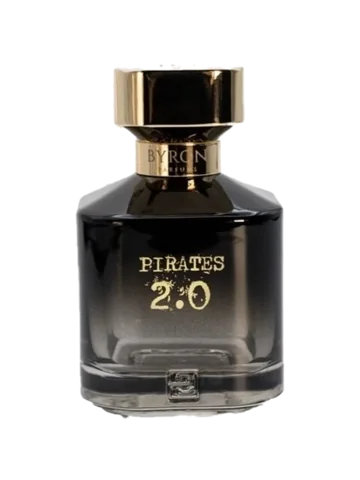
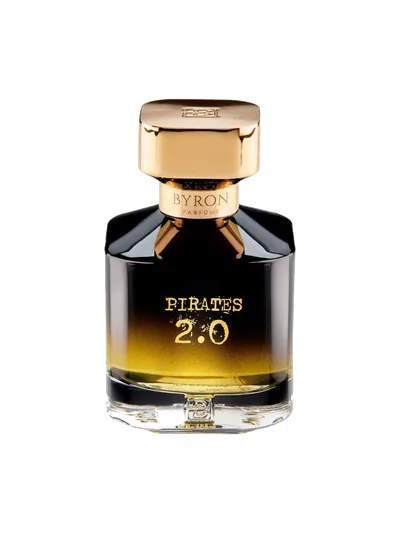
Neuf flacons sur dix passent en pleine définition
J'avais écrit qu'il n'y avait rien de mieux sur le web. C'était faux : je
n'avais essayé que deux sources d'images, sans chercher du côté des
maisons elles-mêmes. Elles publient leur packshot en 1200 à 2900 px sur
leur propre boutique.

Neuf des dix flacons trop petits passent donc de 360-399 px à 750 px, la
définition du site : Initio Atomic Rose et Psychedelic Love, BDK Rouge
Smoking, Byron Pirates, Tiziana Terenzi Kirkè Overdose et Tabit, Tom Ford
Bois Marocain, Xerjoff Via Cavour, Armani Privé Bois d'Encens.

Reste Dior Escale à Portofino, de la collection Cruise, arrêtée. Cherchée
sur la maison, sur huit revendeurs et par recherche web. Le client ne la
vend pas, elle n'a pas de prix au tableur.

Deux choses au passage.

Le détourage refusait les packshots DÉJÀ détourés. Les maisons publient
souvent un PNG à fond transparent : mon code lisait du noir sur les bords
et rejetait l'image comme « photo en ambiance ». Il la prend maintenant
telle quelle, il n'y a rien à enlever.

« Thabit » s'écrit « Tabit ». La maison l'écrit comme l'étoile, et la
graphie du tableur ne renvoie rien nulle part. Ce parfum-là, le client le
vend 12,90 € le 2 ml — la photo comptait vraiment.

338 parfums, 0 bloquant. Boutique resynchronisée.

diff --git a/assets/js/catalogue-client.js b/assets/js/catalogue-client.js
@@ -63,9 +63,9 @@
     {"id": "gritti-adele", "brand": "Gritti", "brandId": "gritti", "name": "Adele", "notesTop": ["Osmanthus", "Jasmin", "Rose de Mai"], "notesHeart": ["Tubéreuse", "Narcisse"], "notesBase": ["Ambre gris", "Cèdre"], "gender": "femme", "price": 6.9, "prices": {"2ml": 6.9, "5ml": 11.9, "10ml": 21.9}, "type": "decant", "supplierAvailable": true, "shopifyHandle": "test-poc-gritti-adele", "accords": ["floral", "fleurs blanches", "fruité", "tubéreuse", "fleurs jaunes", "animal", "rose", "vert", "ambre", "boisé"], "annee": "2018", "family": "oriental", "image": "assets/images/products/gritti-adele.webp", "imageWidth": 706},
     {"id": "gritti-supernova", "brand": "Gritti", "brandId": "gritti", "name": "Supernova", "notesTop": ["Notes minérales", "Poivron vert", "Armoise"], "notesHeart": ["Notes ozoniques", "Poudre", "Oud"], "notesBase": ["Notes métalliques", "Ambre gris", "Cashmeran"], "gender": "unisexe", "price": 7.9, "prices": {"2ml": 7.9, "5ml": 14.9, "10ml": 28.9}, "type": "decant", "supplierAvailable": true, "shopifyHandle": "test-poc-gritti-supernova", "accords": ["minéral", "métallique", "ozonique", "aromatique", "ambre", "fumé", "vert", "herbacé", "animal", "épicé frais"], "family": "aromatique", "image": "assets/images/products/gritti-supernova.webp", "imageWidth": 750},
     {"id": "gritti-chantilly", "brand": "Gritti", "brandId": "gritti", "name": "Chantilly", "notesTop": ["Fraise", "Melon", "Mandarine", "Orange", "Bergamote"], "notesHeart": ["Noix de Coco", "Pomme", "Notes fleuries", "Bourgeon de cassis"], "notesBase": ["Notes poudrées", "Vanille", "Musc"], "gender": "femme", "price": 7.9, "prices": {"2ml": 7.9, "5ml": 13.9, "10ml": 26.9}, "type": "decant", "supplierAvailable": true, "shopifyHandle": "test-poc-gritti-chantilly", "accords": ["fruité", "sucré", "poudré", "vanille", "noix de coco", "agrume", "musqué", "frais", "ozonique", "aquatique"], "annee": "2018", "family": "floral", "image": "assets/images/products/gritti-chantilly.webp", "imageWidth": 750},
-    {"id": "initio-atomic-rose", "brand": "Initio", "brandId": "initio", "name": "Atomic Rose", "notesTop": ["Poivre rose", "Bergamote"], "notesHeart": ["Rose de Bulgarie", "Rose de Turquie", "Jasmin d'Egypte"], "notesBase": ["Vanille de Madagascar", "Ambre"], "gender": "homme", "price": 10.9, "prices": {"2ml": 10.9, "5ml": 20.9, "10ml": 39.9}, "type": "decant", "supplierAvailable": true, "shopifyHandle": "test-poc-initio-atomic-rose", "accords": ["rose", "vanille", "agrume", "épicé doux", "floral", "ambre", "poudré"], "annee": "2019", "family": "oriental", "image": "assets/images/products/initio-atomic-rose.webp", "imageWidth": 375},
+    {"id": "initio-atomic-rose", "brand": "Initio", "brandId": "initio", "name": "Atomic Rose", "notesTop": ["Poivre rose", "Bergamote"], "notesHeart": ["Rose de Bulgarie", "Rose de Turquie", "Jasmin d'Egypte"], "notesBase": ["Vanille de Madagascar", "Ambre"], "gender": "homme", "price": 10.9, "prices": {"2ml": 10.9, "5ml": 20.9, "10ml": 39.9}, "type": "decant", "supplierAvailable": true, "shopifyHandle": "test-poc-initio-atomic-rose", "accords": ["rose", "vanille", "agrume", "épicé doux", "floral", "ambre", "poudré"], "annee": "2019", "family": "oriental", "image": "assets/images/products/initio-atomic-rose.webp", "imageWidth": 750},
     {"id": "initio-narcotic-delight", "brand": "Initio", "brandId": "initio", "name": "Narcotic Delight", "notesTop": ["Cerise", "Poivre rose", "Poivre noir"], "notesHeart": ["Cognac", "Hedione", "Rose"], "notesBase": ["Tabac", "Vanille", "Fève de tonka", "Cèdre", "Patchouli"], "gender": "homme", "price": 10.9, "prices": {"2ml": 10.9, "5ml": 22.9, "10ml": 43.9}, "type": "decant", "supplierAvailable": true, "shopifyHandle": "test-poc-initio-narcotic-delight", "accords": ["sucré", "vanille", "cerise", "boisé", "tabac", "épicé chaud", "épicé frais", "épicé doux", "floral"], "annee": "2024", "family": "oriental", "image": "assets/images/products/initio-narcotic-delight.webp", "imageWidth": 750},
-    {"id": "initio-psychedelic-love", "brand": "Initio", "brandId": "initio", "name": "Psychedelic Love", "notesTop": ["Ylang-ylang", "Bergamote"], "notesHeart": ["Héliotrope", "Hedione", "Rose de Bulgarie"], "notesBase": ["Myrrhe", "Bois de santal"], "gender": "homme", "price": 12.9, "prices": {"2ml": 12.9, "5ml": 25.9, "10ml": 49.9}, "type": "decant", "supplierAvailable": true, "shopifyHandle": "test-poc-initio-psychedelic-love", "accords": ["poudré", "boisé", "floral", "ambre", "fleurs jaunes", "vanille", "sucré", "épicé chaud", "amande", "balsamique/baumé"], "annee": "2017", "family": "floral", "image": "assets/images/products/initio-psychedelic-love.webp", "imageWidth": 360},
+    {"id": "initio-psychedelic-love", "brand": "Initio", "brandId": "initio", "name": "Psychedelic Love", "notesTop": ["Ylang-ylang", "Bergamote"], "notesHeart": ["Héliotrope", "Hedione", "Rose de Bulgarie"], "notesBase": ["Myrrhe", "Bois de santal"], "gender": "homme", "price": 12.9, "prices": {"2ml": 12.9, "5ml": 25.9, "10ml": 49.9}, "type": "decant", "supplierAvailable": true, "shopifyHandle": "test-poc-initio-psychedelic-love", "accords": ["poudré", "boisé", "floral", "ambre", "fleurs jaunes", "vanille", "sucré", "épicé chaud", "amande", "balsamique/baumé"], "annee": "2017", "family": "floral", "image": "assets/images/products/initio-psychedelic-love.webp", "imageWidth": 750},
     {"id": "initio-rehab", "brand": "Initio", "brandId": "initio", "name": "Rehab", "notesTop": ["Lavande", "Bergamote"], "notesHeart": ["Cèdre", "Vétiver", "Patchouli"], "notesBase": ["Bois de santal", "Musc", "Gaïac"], "gender": "homme", "price": 12.9, "prices": {"2ml": 12.9, "5ml": 25.9, "10ml": 49.9}, "type": "decant", "supplierAvailable": true, "shopifyHandle": "test-poc-initio-rehab", "accords": ["boisé", "poudré", "aromatique", "Lavande", "musqué", "épicé frais", "agrume", "épicé chaud"], "annee": "2018", "family": "boisé", "image": "assets/images/products/initio-rehab.webp", "imageWidth": 750},
     {"id": "kajal-almaz", "brand": "Kajal", "brandId": "kajal", "name": "Almaz", "notesTop": ["Cassis", "Bergamote de Calabre", "Limone Costa d'Amalfi", "Mandarine"], "notesHeart": ["Framboise", "Héliotrope", "Rose de Turquie", "Racine d'iris"], "notesBase": ["Cassonade", "Vanille de Madagascar", "Musc", "Fève de tonka", "Bois de santal", "Ambre"], "gender": "homme", "price": 8.9, "prices": {"2ml": 8.9, "5ml": 17.9, "10ml": 33.9}, "type": "decant", "supplierAvailable": true, "shopifyHandle": "test-poc-kajal-almaz", "accords": ["fruité", "sucré", "agrume", "vanille", "poudré", "boisé", "aromatique", "floral", "épicé doux"], "annee": "2022", "family": "frais", "image": "assets/images/products/kajal-almaz.webp", "imageWidth": 750},
     {"id": "kajal-dahab", "brand": "Kajal", "brandId": "kajal", "name": "Dahab", "notesTop": ["Pomme Granny Smith", "Bergamote"], "notesHeart": ["Fruit de la passion", "Cèdre", "Coriandre"], "notesBase": ["Musc", "Ambre", "Patchouli"], "gender": "femme", "price": 8.9, "prices": {"2ml": 8.9, "5ml": 15.9, "10ml": 29.9}, "type": "decant", "supplierAvailable": true, "shopifyHandle": "test-poc-kajal-dahab", "accords": ["fruité", "frais", "musqué", "tropical", "sucré", "poudré", "boisé", "ambre", "agrume", "vert"], "annee": "2015", "family": "frais", "image": "assets/images/products/kajal-dahab.webp", "imageWidth": 540},
@@ -141,26 +141,26 @@
     {"id": "stephanie-de-bruijn-promenons-nous-dans-les-bois", "brand": "Stéphanie de Bruijn", "brandId": "stephanie-de-bruijn", "name": "Promenons-nous dans les Bois", "notesTop": ["Lavande", "Notes vertes", "Citron", "Bergamote"], "notesHeart": ["Menthe", "Sauge", "Armoise", "Noix de muscade", "Anis", "Héliotrope"], "notesBase": ["Musc blanc", "Vanille", "Ambre", "Cèdre", "Bois de santal"], "gender": "homme", "price": 6.9, "prices": {"2ml": 6.9, "5ml": 11.9, "10ml": 22.9}, "type": "decant", "supplierAvailable": true, "shopifyHandle": "test-poc-stephanie-de-bruijn-promenons-nous-dans-les-bois", "accords": ["aromatique", "épicé frais", "vert", "herbacé", "musqué", "épicé doux", "Lavande", "poudré"], "annee": "2020", "family": "aromatique", "image": "assets/images/products/stephanie-de-bruijn-promenons-nous-dans-les-bois.webp", "imageWidth": 750},
     {"id": "tiziana-terenzi-halley", "brand": "Tiziana Terenzi", "brandId": "tiziana-terenzi", "name": "Halley", "notesTop": ["Fruit de la passion", "Bourgeon de cassis", "Citron", "Rose"], "notesHeart": ["Pêche", "Framboise", "Notes fleuries", "Notes vertes", "Cannelle"], "notesBase": ["Musc", "Vanille", "Notes boisées", "Ambre"], "gender": "homme", "price": 12.9, "prices": {"2ml": 12.9, "5ml": 25.9, "10ml": 49.9}, "type": "decant", "supplierAvailable": true, "shopifyHandle": "test-poc-tiziana-terenzi-halley", "accords": ["fruité", "sucré", "poudré", "musqué", "vert", "tropical", "vanille", "frais", "boisé", "aromatique"], "annee": "2019", "family": "floral", "image": "assets/images/products/tiziana-terenzi-halley.webp", "imageWidth": 540},
     {"id": "tiziana-terenzi-kirke", "brand": "Tiziana Terenzi", "brandId": "tiziana-terenzi", "name": "Kirke", "notesTop": ["Fruit de la passion", "Pêche", "Poire", "Cassis", "Framboise", "Sable"], "notesHeart": ["Muguet"], "notesBase": ["Musc", "Héliotrope", "Vanille", "Patchouli", "Bois de santal"], "gender": "homme", "price": 7.9, "prices": {"2ml": 7.9, "5ml": 13.9, "10ml": 26.9}, "type": "decant", "supplierAvailable": true, "shopifyHandle": "test-poc-tiziana-terenzi-kirke", "accords": ["fruité", "sucré", "musqué", "poudré", "frais", "tropical", "boisé"], "annee": "2015", "family": "frais", "image": "assets/images/products/tiziana-terenzi-kirke.webp", "imageWidth": 750},
-    {"id": "tiziana-terenzi-kirke-overdose", "brand": "Tiziana Terenzi", "brandId": "tiziana-terenzi", "name": "Kirke Overdose", "notesTop": ["Fruit de la passion", "Pêche", "Framboise", "Rose de Bulgarie"], "notesHeart": ["Gardénia", "Sable", "Jasmin Sambac", "Cassis", "Muguet"], "notesBase": ["Musc", "Vanille bourbon", "Ambre gris", "Héliotrope", "Santal d'Australie", "Patchouli d'Inde"], "gender": "homme", "price": 10.9, "prices": {"2ml": 10.9, "5ml": 21.9, "10ml": 41.9}, "type": "decant", "supplierAvailable": true, "shopifyHandle": "test-poc-tiziana-terenzi-kirke-overdose", "accords": ["fruité", "fleurs blanches", "poudré", "sucré", "musqué", "vanille", "sable", "animal", "rose", "boisé"], "annee": "2025", "family": "floral", "image": "assets/images/products/tiziana-terenzi-kirke-overdose.webp", "imageWidth": 374},
+    {"id": "tiziana-terenzi-kirke-overdose", "brand": "Tiziana Terenzi", "brandId": "tiziana-terenzi", "name": "Kirke Overdose", "notesTop": ["Fruit de la passion", "Pêche", "Framboise", "Rose de Bulgarie"], "notesHeart": ["Gardénia", "Sable", "Jasmin Sambac", "Cassis", "Muguet"], "notesBase": ["Musc", "Vanille bourbon", "Ambre gris", "Héliotrope", "Santal d'Australie", "Patchouli d'Inde"], "gender": "homme", "price": 10.9, "prices": {"2ml": 10.9, "5ml": 21.9, "10ml": 41.9}, "type": "decant", "supplierAvailable": true, "shopifyHandle": "test-poc-tiziana-terenzi-kirke-overdose", "accords": ["fruité", "fleurs blanches", "poudré", "sucré", "musqué", "vanille", "sable", "animal", "rose", "boisé"], "annee": "2025", "family": "floral", "image": "assets/images/products/tiziana-terenzi-kirke-overdose.webp", "imageWidth": 750},
     {"id": "tiziana-terenzi-spirito-fiorentino", "brand": "Tiziana Terenzi", "brandId": "tiziana-terenzi", "name": "Spirito Fiorentino", "notesTop": ["Safran", "Orange", "Jasmin", "Lys"], "notesHeart": ["Ambre gris", "Ylang-ylang", "Magnolia", "Muguet"], "notesBase": ["Cuir", "Bouleau", "Bois précieux", "Musc", "Mousse de chêne", "Bois de santal"], "gender": "homme", "price": 9.9, "prices": {"2ml": 9.9, "5ml": 17.9, "10ml": 34.9}, "type": "decant", "supplierAvailable": true, "shopifyHandle": "test-poc-tiziana-terenzi-spirito-fiorentino", "accords": ["cuir", "boisé", "animal", "épicé chaud", "ambre", "fumé", "fleurs blanches", "métallique", "musqué", "mousse"], "annee": "2019", "family": "boisé", "image": "assets/images/products/tiziana-terenzi-spirito-fiorentino.webp", "imageWidth": 750},
     {"id": "tiziana-terenzi-andromeda", "brand": "Tiziana Terenzi", "brandId": "tiziana-terenzi", "name": "Andromeda", "notesTop": ["Ylang-ylang", "Jasmin d'eau", "Bergamote", "Herbe"], "notesHeart": ["Pêche", "Fleur de poirier", "Lys", "Héliotrope blanc", "Feuille de violette", "Rose de Damas"], "notesBase": ["Bois de cachemire", "Ambre", "Ébène", "Fève de tonka", "Vanille", "Sucre", "Noix de Coco"], "gender": "homme", "price": 9.9, "prices": {"2ml": 9.9, "5ml": 19.9, "10ml": 37.9}, "type": "decant", "supplierAvailable": true, "shopifyHandle": "test-poc-tiziana-terenzi-andromeda", "accords": ["boisé", "sucré", "vanille", "fleurs blanches", "ambre", "fruité", "floral", "poudré", "fleurs jaunes", "vert"], "annee": "2015", "family": "oriental", "image": "assets/images/products/tiziana-terenzi-andromeda.webp", "imageWidth": 750},
     {"id": "tiziana-terenzi-cassiopea", "brand": "Tiziana Terenzi", "brandId": "tiziana-terenzi", "name": "Cassiopea", "notesTop": ["Fruit de la passion", "Bourgeon de cassis", "Citron", "Fougère"], "notesHeart": ["Rose hybride de thé", "Muguet", "Œillet"], "notesBase": ["Fève de tonka", "Musc", "Bois de santal"], "gender": "homme", "price": 9.9, "prices": {"2ml": 9.9, "5ml": 19.9, "10ml": 38.9}, "type": "decant", "supplierAvailable": true, "shopifyHandle": "test-poc-tiziana-terenzi-cassiopea", "accords": ["fruité", "aromatique", "sucré", "frais", "tropical", "musqué", "poudré", "vanille", "boisé", "épicé chaud"], "annee": "2015", "family": "aromatique", "image": "assets/images/products/tiziana-terenzi-cassiopea.webp", "imageWidth": 750},
     {"id": "tiziana-terenzi-draco", "brand": "Tiziana Terenzi", "brandId": "tiziana-terenzi", "name": "Draco", "notesTop": ["Bergamote", "Citron", "Orange", "Notes vertes"], "notesHeart": ["Pêche", "Magnolia", "Jasmin", "Cèdre", "Patchouli"], "notesBase": ["Musc", "Poire", "Vanille", "Fève de tonka", "Héliotrope"], "gender": "homme", "price": 9.9, "prices": {"2ml": 9.9, "5ml": 19.9, "10ml": 37.9}, "type": "decant", "supplierAvailable": true, "shopifyHandle": "test-poc-tiziana-terenzi-draco", "accords": ["poudré", "vanille", "fruité", "sucré", "agrume", "musqué", "floral", "boisé", "aromatique", "fleurs blanches"], "annee": "2015", "family": "oriental", "image": "assets/images/products/tiziana-terenzi-draco.webp", "imageWidth": 750},
-    {"id": "tiziana-terenzi-thabit", "brand": "Tiziana Terenzi", "brandId": "tiziana-terenzi", "name": "Thabit", "notesTop": ["Notes vertes", "Bergamote"], "notesHeart": ["Pêche", "Notes fleuries", "Sable", "Noix de coco"], "notesBase": ["Musc", "Cotton Candy", "Notes boisées", "Vanille", "Ambre"], "gender": "homme", "price": 12.9, "prices": {"2ml": 12.9, "5ml": 25.9, "10ml": 49.9}, "type": "decant", "supplierAvailable": true, "shopifyHandle": "test-poc-tiziana-terenzi-thabit", "accords": ["sucré", "poudré", "musqué", "boisé", "vanille", "fruité", "floral", "ambre", "caramel", "vert"], "annee": "2016", "family": "boisé", "image": "assets/images/products/tiziana-terenzi-thabit.webp", "imageWidth": 375},
+    {"id": "tiziana-terenzi-tabit", "brand": "Tiziana Terenzi", "brandId": "tiziana-terenzi", "name": "Tabit", "notesTop": ["Notes vertes", "Bergamote"], "notesHeart": ["Pêche", "Notes fleuries", "Sable", "Noix de coco"], "notesBase": ["Musc", "Cotton Candy", "Notes boisées", "Vanille", "Ambre"], "gender": "homme", "price": 12.9, "prices": {"2ml": 12.9, "5ml": 25.9, "10ml": 49.9}, "type": "decant", "supplierAvailable": true, "shopifyHandle": "test-poc-tiziana-terenzi-thabit", "accords": ["sucré", "poudré", "musqué", "boisé", "vanille", "fruité", "floral", "ambre", "caramel", "vert"], "annee": "2016", "family": "boisé", "image": "assets/images/products/tiziana-terenzi-tabit.webp", "imageWidth": 750},
     {"id": "tom-ford-azure-lime", "brand": "Tom Ford", "brandId": "tom-ford", "name": "Azure Lime", "notesTop": ["Agrumes", "Notes boisées", "Musc", "Buchu or Agathosma", "Sandal"], "notesHeart": [], "notesBase": [], "gender": "homme", "price": 15.9, "prices": {"2ml": 15.9, "5ml": 33.9, "10ml": 66.9}, "type": "decant", "supplierAvailable": true, "shopifyHandle": "test-poc-tom-ford-azure-lime", "accords": ["agrume", "boisé", "frais", "musqué", "poudré"], "annee": "2010", "family": "frais", "image": "assets/images/products/tom-ford-azure-lime.webp", "imageWidth": 750},
     {"id": "tom-ford-black-orchid-reserve", "brand": "Tom Ford", "brandId": "tom-ford", "name": "Black Orchid Reserve", "notesTop": ["Truffe", "Bergamote"], "notesHeart": ["Ylang-ylang", "Orchidée noire"], "notesBase": ["Chocolat noir", "Patchouli", "Fève de tonka", "Vanille"], "gender": "homme", "price": 9.9, "prices": {"2ml": 9.9, "5ml": 19.9, "10ml": 38.9}, "type": "decant", "supplierAvailable": true, "shopifyHandle": "test-poc-tom-ford-black-orchid-reserve", "accords": ["sucré", "épicé chaud", "terreux", "patchouli", "boisé", "fleurs jaunes", "chocolat", "vanille", "floral", "balsamique/baumé"], "annee": "2025", "family": "boisé", "image": "assets/images/products/tom-ford-black-orchid-reserve.webp", "imageWidth": 645},
     {"id": "tom-ford-ombre-leather", "brand": "Tom Ford", "brandId": "tom-ford", "name": "Ombre Leather", "notesTop": ["Cardamome", "Jasmin Sambac", "Safran"], "notesHeart": ["Cuir noir", "Patchouli", "Vétiver"], "notesBase": ["Ambre", "Mousse blanche"], "gender": "homme", "price": 7.9, "prices": {"2ml": 7.9, "5ml": 14.9, "10ml": 28.9}, "type": "decant", "supplierAvailable": true, "shopifyHandle": "test-poc-tom-ford-ombre-leather", "accords": ["vanille", "cuir", "épicé chaud", "animal", "aromatique", "poudré", "fumé", "épicé frais", "épicé doux", "sucré"], "annee": "2024", "family": "cuir", "image": "assets/images/products/tom-ford-ombre-leather.webp", "imageWidth": 750},
     {"id": "tom-ford-rose-exposed", "brand": "Tom Ford", "brandId": "tom-ford", "name": "Rose Exposed", "notesTop": ["Poivre blanc", "Poivre rose"], "notesHeart": ["Eau de rose", "Huile essentielle de rose", "Fleur d'oranger"], "notesBase": ["Cuir", "Résine oliban", "Bois de santal", "Musc", "Bois de cachemire"], "gender": "homme", "price": 15.9, "prices": {"2ml": 15.9, "5ml": 34.9, "10ml": 68.9}, "type": "decant", "supplierAvailable": true, "shopifyHandle": "test-poc-tom-ford-rose-exposed", "accords": ["rose", "épicé frais", "cuir", "boisé", "musqué", "ambre", "poudré", "épicé chaud", "animal", "épicé doux"], "annee": "2025", "family": "boisé", "image": "assets/images/products/tom-ford-rose-exposed.webp", "imageWidth": 750},
     {"id": "tom-ford-soleil-neige", "brand": "Tom Ford", "brandId": "tom-ford", "name": "Soleil Neige", "notesTop": ["Bergamote", "Graines de carotte"], "notesHeart": ["Fleurs blanches", "Fleur d'oranger", "Jasmin", "Rose", "Rose de Turquie"], "notesBase": ["Benjoin", "Vanille", "Ciste"], "gender": "homme", "price": 9.9, "prices": {"2ml": 9.9, "5ml": 18.9, "10ml": 35.9}, "type": "decant", "supplierAvailable": true, "shopifyHandle": "test-poc-tom-ford-soleil-neige", "accords": ["fleurs blanches", "agrume", "ambre", "vanille", "poudré", "épicé frais", "musqué", "épicé chaud"], "annee": "2019", "family": "boisé", "image": "assets/images/products/tom-ford-soleil-neige.webp", "imageWidth": 750},
-    {"id": "tom-ford-bois-marocain", "brand": "Tom Ford", "brandId": "tom-ford", "name": "Bois Marocain", "notesTop": ["Encens", "Cèdre de Virginie", "Cyprès", "Thuja", "Vetyver", "Poivre", "Poivre rose", "Patchouli", "Bergamote"], "notesHeart": [], "notesBase": [], "gender": "homme", "price": 15.9, "prices": {"2ml": 15.9, "5ml": 34.9, "10ml": 68.9}, "type": "decant", "supplierAvailable": true, "shopifyHandle": "test-poc-tom-ford-bois-marocain", "accords": ["boisé", "aromatique", "épicé frais", "ambre", "fumé", "épicé chaud"], "annee": "2009", "family": "boisé", "image": "assets/images/products/tom-ford-bois-marocain.webp", "imageWidth": 375},
+    {"id": "tom-ford-bois-marocain", "brand": "Tom Ford", "brandId": "tom-ford", "name": "Bois Marocain", "notesTop": ["Encens", "Cèdre de Virginie", "Cyprès", "Thuja", "Vetyver", "Poivre", "Poivre rose", "Patchouli", "Bergamote"], "notesHeart": [], "notesBase": [], "gender": "homme", "price": 15.9, "prices": {"2ml": 15.9, "5ml": 34.9, "10ml": 68.9}, "type": "decant", "supplierAvailable": true, "shopifyHandle": "test-poc-tom-ford-bois-marocain", "accords": ["boisé", "aromatique", "épicé frais", "ambre", "fumé", "épicé chaud"], "annee": "2009", "family": "boisé", "image": "assets/images/products/tom-ford-bois-marocain.webp", "imageWidth": 750},
     {"id": "xerjoff-erba-gold", "brand": "Xerjoff", "brandId": "xerjoff", "name": "Erba Gold", "notesTop": ["Orange du Brésil", "Bergamote de Calabre", "Citron de Sicile", "Gingembre"], "notesHeart": ["Melon", "Poire", "Pomme verte", "Cannelle", "Cardamome du Guatémala", "Clou de girofle"], "notesBase": ["Musc blanc", "Vanille de Madagascar", "Ambre", "Notes boisées"], "gender": "homme", "price": 11.9, "prices": {"2ml": 11.9, "5ml": 23.9, "10ml": 45.9}, "type": "decant", "supplierAvailable": true, "shopifyHandle": "test-poc-xerjoff-erba-gold", "accords": ["agrume", "fruité", "frais", "sucré", "aquatique", "épicé frais", "ozonique", "musqué", "vanille", "poudré"], "annee": "2016", "family": "frais", "image": "assets/images/products/xerjoff-erba-gold.webp", "imageWidth": 582},
     {"id": "xerjoff-naxos", "brand": "Xerjoff", "brandId": "xerjoff", "name": "Naxos", "notesTop": ["Lavande", "Bergamote", "Citron"], "notesHeart": ["Miel", "Cannelle", "Bois de cachemire", "Jasmin Sambac"], "notesBase": ["Feuille de tabac", "Vanille", "Fève de tonka"], "gender": "homme", "price": 10.9, "prices": {"2ml": 10.9, "5ml": 21.9, "10ml": 42.9}, "type": "decant", "supplierAvailable": true, "shopifyHandle": "test-poc-xerjoff-naxos", "accords": ["sucré", "miel", "vanille", "tabac", "Lavande", "agrume", "aromatique", "floral", "poudré", "épicé chaud"], "annee": "2015", "family": "frais", "image": "assets/images/products/xerjoff-naxos.webp", "imageWidth": 750},
     {"id": "xerjoff-alexandria-ii", "brand": "Xerjoff", "brandId": "xerjoff", "name": "Alexandria II", "notesTop": ["Palissandre", "Lavande", "Pomme", "Cannelle"], "notesHeart": ["Rose", "Cèdre", "Muguet"], "notesBase": ["Oud", "Bois de santal", "Ambre", "Vanille", "Musc"], "gender": "homme", "price": 20.9, "prices": {"2ml": 20.9, "5ml": 45.9, "10ml": 88.9}, "type": "decant", "supplierAvailable": true, "shopifyHandle": "test-poc-xerjoff-alexandria-ii", "accords": ["boisé", "ambre", "poudré", "Lavande", "oud", "épicé chaud", "vanille", "rose", "épicé frais", "balsamique/baumé"], "annee": "2012", "family": "boisé", "image": "assets/images/products/xerjoff-alexandria-ii.webp", "imageWidth": 669},
-    {"id": "xerjoff-via-cavour", "brand": "Xerjoff", "brandId": "xerjoff", "name": "Via Cavour", "notesTop": ["Coing", "Pêche blanche"], "notesHeart": ["Chocolat noir", "Fruits rouges", "Rose du Maroc", "Rose", "Patchouli"], "notesBase": ["Caramel", "Vanille de Madagascar", "Oud", "Ambre", "Bois de cachemire", "Musc"], "gender": "homme", "price": 9.9, "prices": {"2ml": 9.9, "5ml": 19.9, "10ml": 38.9}, "type": "decant", "supplierAvailable": true, "shopifyHandle": "test-poc-xerjoff-via-cavour", "accords": ["sucré", "fruité", "poudré", "caramel", "ambre", "musqué", "chocolat", "vanille", "rose", "épicé chaud"], "annee": "2017", "family": "oriental", "image": "assets/images/products/xerjoff-via-cavour.webp", "imageWidth": 360},
+    {"id": "xerjoff-via-cavour", "brand": "Xerjoff", "brandId": "xerjoff", "name": "Via Cavour", "notesTop": ["Coing", "Pêche blanche"], "notesHeart": ["Chocolat noir", "Fruits rouges", "Rose du Maroc", "Rose", "Patchouli"], "notesBase": ["Caramel", "Vanille de Madagascar", "Oud", "Ambre", "Bois de cachemire", "Musc"], "gender": "homme", "price": 9.9, "prices": {"2ml": 9.9, "5ml": 19.9, "10ml": 38.9}, "type": "decant", "supplierAvailable": true, "shopifyHandle": "test-poc-xerjoff-via-cavour", "accords": ["sucré", "fruité", "poudré", "caramel", "ambre", "musqué", "chocolat", "vanille", "rose", "épicé chaud"], "annee": "2017", "family": "oriental", "image": "assets/images/products/xerjoff-via-cavour.webp", "imageWidth": 750},
     {"id": "xerjoff-erba-pura", "brand": "Xerjoff", "brandId": "xerjoff", "name": "Erba Pura", "notesTop": ["Bergamote de Calabre", "Citron de Sicile", "Orange de Sicile"], "notesHeart": ["Notes fruitées"], "notesBase": ["Musc blanc", "Ambre", "Vanille bourbon"], "gender": "homme", "price": 9.9, "prices": {"2ml": 9.9, "5ml": 19.9, "10ml": 38.9}, "type": "decant", "supplierAvailable": true, "shopifyHandle": "test-poc-xerjoff-erba-pura", "accords": ["agrume", "fruité", "sucré", "musqué", "poudré", "vanille", "ambre", "épicé frais"], "annee": "2019", "family": "oriental", "image": "assets/images/products/xerjoff-erba-pura.webp", "imageWidth": 585},
     {"id": "bdk-parfums-312-saint-honore", "brand": "BDK Parfums", "brandId": "bdk-parfums", "name": "312 Saint-Honoré", "notesTop": ["Poivre rose", "Racine d'angélique"], "notesHeart": ["Fleur d'oranger", "Iris", "Fève de tonka"], "notesBase": ["Musc blanc", "Ambroxan", "Ambrostar™", "Oud de Thaïlande"], "gender": "homme", "type": "decant", "bientot": true, "supplierAvailable": false, "shopifyHandle": "test-poc-bdk-parfums-312-saint-honore", "accords": ["musqué", "ambre", "poudré", "fleurs blanches", "iris", "sucré", "épicé doux", "animal", "agrume"], "annee": "2024", "family": "oriental", "image": "assets/images/products/bdk-parfums-312-saint-honore.webp", "imageWidth": 675},
     {"id": "bdk-parfums-pas-ce-soir", "brand": "BDK Parfums", "brandId": "bdk-parfums", "name": "Pas ce Soir", "notesTop": ["Gingembre", "Mandarine", "Poivre noir"], "notesHeart": ["Coing", "Jasmin du Maroc", "Fleur d'oranger"], "notesBase": ["Bois de cachemire", "Amberwood", "Patchouli de Singapour"], "gender": "femme", "type": "decant", "bientot": true, "supplierAvailable": false, "shopifyHandle": "test-poc-bdk-parfums-pas-ce-soir", "accords": ["fleurs blanches", "fruité", "boisé", "sucré", "agrume", "épicé frais", "frais", "ambre", "floral", "épicé chaud"], "annee": "2016", "family": "floral", "image": "assets/images/products/bdk-parfums-pas-ce-soir.webp", "imageWidth": 750},
-    {"id": "bdk-parfums-rouge-smoking", "brand": "BDK Parfums", "brandId": "bdk-parfums", "name": "Rouge Smoking", "notesTop": ["Cerise", "Poivre rose", "Bergamote"], "notesHeart": ["Gousse de vanille noire", "Héliotrope", "Fleur d'oranger"], "notesBase": ["Fève de tonka", "Bois de cachemire", "Musc blanc", "Ambroxan", "Ciste", "Violette"], "gender": "homme", "type": "decant", "bientot": true, "supplierAvailable": false, "shopifyHandle": "test-poc-bdk-parfums-rouge-smoking", "accords": ["vanille", "sucré", "poudré", "ambre", "musqué", "cerise", "boisé", "amande", "balsamique/baumé"], "annee": "2018", "family": "oriental", "image": "assets/images/products/bdk-parfums-rouge-smoking.webp", "imageWidth": 399},
+    {"id": "bdk-parfums-rouge-smoking", "brand": "BDK Parfums", "brandId": "bdk-parfums", "name": "Rouge Smoking", "notesTop": ["Cerise", "Poivre rose", "Bergamote"], "notesHeart": ["Gousse de vanille noire", "Héliotrope", "Fleur d'oranger"], "notesBase": ["Fève de tonka", "Bois de cachemire", "Musc blanc", "Ambroxan", "Ciste", "Violette"], "gender": "homme", "type": "decant", "bientot": true, "supplierAvailable": false, "shopifyHandle": "test-poc-bdk-parfums-rouge-smoking", "accords": ["vanille", "sucré", "poudré", "ambre", "musqué", "cerise", "boisé", "amande", "balsamique/baumé"], "annee": "2018", "family": "oriental", "image": "assets/images/products/bdk-parfums-rouge-smoking.webp", "imageWidth": 750},
     {"id": "kys-black-passion", "brand": "KYS", "brandId": "kys", "name": "Black Passion", "notesTop": ["Fleur d'oranger", "Bergamote", "Cannelle"], "notesHeart": ["Élémi", "Vanille bourbon"], "notesBase": ["Gaïac", "Praliné", "Musc"], "gender": "homme", "type": "decant", "bientot": true, "supplierAvailable": false, "shopifyHandle": "test-poc-kys-black-passion", "accords": ["boisé", "fleurs blanches", "fumé", "agrume", "aromatique"], "annee": "2025", "family": "oriental", "image": "assets/images/products/kys-black-passion.webp", "imageWidth": 750},
     {"id": "kys-blue-passion", "brand": "KYS", "brandId": "kys", "name": "Blue Passion", "notesTop": ["Fruit de la passion", "Pêche", "Bergamote"], "notesHeart": ["Caramel", "Géranium", "Jasmin"], "notesBase": ["Musc blanc", "Patchouli", "Ambre gris"], "gender": "homme", "type": "decant", "bientot": true, "supplierAvailable": false, "shopifyHandle": "test-poc-kys-blue-passion", "accords": ["fruité", "sucré", "épicé frais", "musqué", "caramel", "tropical", "aromatique", "poudré", "ambre", "agrume"], "annee": "2024", "family": "floral", "image": "assets/images/products/kys-blue-passion.webp", "imageWidth": 750},
     {"id": "kys-comme-avant", "brand": "KYS", "brandId": "kys", "name": "Comme Avant", "notesTop": ["Safran", "Pomme"], "notesHeart": ["Géranium", "Cannelle", "Ambroxan", "Jasmin"], "notesBase": ["Bois de santal", "Vanille", "Résines", "Cèdre", "Sucre"], "gender": "homme", "type": "decant", "bientot": true, "supplierAvailable": false, "shopifyHandle": "test-poc-kys-comme-avant", "accords": ["épicé chaud", "boisé", "ambre", "vanille", "épicé frais", "sucré", "aromatique", "fleurs blanches", "poudré", "cannelle"], "annee": "2025", "family": "oriental", "image": "assets/images/products/kys-comme-avant.webp", "imageWidth": 750},
@@ -180,7 +180,7 @@
     {"id": "tiziana-terenzi-porpora", "brand": "Tiziana Terenzi", "brandId": "tiziana-terenzi", "name": "Porpora", "notesTop": ["Rose", "Framboise", "Clou de girofle", "Cannelle"], "notesHeart": ["Rose de Bulgarie", "Encens", "Patchouli", "Pavot"], "notesBase": ["Myrrhe", "Ambre", "Musc", "Benjoin", "Châtaigne"], "gender": "homme", "type": "decant", "bientot": true, "supplierAvailable": false, "shopifyHandle": "test-poc-tiziana-terenzi-porpora", "accords": ["ambre", "épicé chaud", "rose", "balsamique/baumé", "sucré", "patchouli", "fumé", "floral", "fruité", "boisé"], "annee": "2017", "family": "oriental", "image": "assets/images/products/tiziana-terenzi-porpora.webp", "imageWidth": 723},
     {"id": "armani-prive-magenta-tanzanite", "brand": "Armani Privé", "brandId": "armani-prive", "name": "Magenta Tanzanite", "notesTop": ["Cardamome", "Gingembre", "Bergamote"], "notesHeart": ["Cannelle", "Myrrhe", "Café"], "notesBase": ["Absolue de tabac", "Fève de tonka", "Vanille"], "gender": "unisexe", "price": 10.9, "prices": {"2ml": 10.9, "5ml": 21.9, "10ml": 39.9}, "type": "decant", "supplierAvailable": true, "shopifyHandle": "armani-prive-magenta-tanzanite", "image": "assets/images/products/armani-prive-magenta-tanzanite.webp", "imageWidth": 540, "annee": "2022"},
     {"id": "armani-prive-noir-kogane", "brand": "Armani Privé", "brandId": "armani-prive", "name": "Noir Kogane", "notesTop": ["Cumin", "Résine d'élémi", "Poivre rose"], "notesHeart": ["Safran", "Absolue de ciste", "Encens"], "notesBase": ["Cuir", "Patchouli", "Vétiver"], "gender": "unisexe", "price": 10.9, "prices": {"2ml": 10.9, "5ml": 21.9, "10ml": 39.9}, "type": "decant", "supplierAvailable": true, "shopifyHandle": "armani-prive-noir-kogane", "image": "assets/images/products/armani-prive-noir-kogane.webp", "imageWidth": 540, "annee": "2023"},
-    {"id": "armani-prive-bois-dencens", "brand": "Armani Privé", "brandId": "armani-prive", "name": "Bois d’Encens", "notesTop": ["Poivre"], "notesHeart": ["Vétiver"], "notesBase": ["Encens"], "gender": "unisexe", "price": 10.9, "prices": {"2ml": 10.9, "5ml": 21.9, "10ml": 39.9}, "type": "decant", "supplierAvailable": true, "shopifyHandle": "armani-prive-bois-dencens", "image": "assets/images/products/armani-prive-bois-dencens.webp", "imageWidth": 360, "annee": "2004"},
+    {"id": "armani-prive-bois-dencens", "brand": "Armani Privé", "brandId": "armani-prive", "name": "Bois d’Encens", "notesTop": ["Poivre"], "notesHeart": ["Vétiver"], "notesBase": ["Encens"], "gender": "unisexe", "price": 10.9, "prices": {"2ml": 10.9, "5ml": 21.9, "10ml": 39.9}, "type": "decant", "supplierAvailable": true, "shopifyHandle": "armani-prive-bois-dencens", "image": "assets/images/products/armani-prive-bois-dencens.webp", "imageWidth": 750, "annee": "2004"},
     {"id": "armani-prive-oud-nacre", "brand": "Armani Privé", "brandId": "armani-prive", "name": "Oud Nacré", "notesTop": ["Oud", "Amberwood", "Ambrox", "Patchouli du Guatemala", "Jasmin grandiflorum", "Safran"], "notesHeart": [], "notesBase": [], "gender": "unisexe", "price": 11.9, "prices": {"2ml": 11.9, "5ml": 23.9, "10ml": 39.9}, "type": "decant", "supplierAvailable": true, "shopifyHandle": "armani-prive-oud-nacre", "image": "assets/images/products/armani-prive-oud-nacre.webp", "imageWidth": 735, "annee": "2026"},
     {"id": "armani-prive-blanc-kogane", "brand": "Armani Privé", "brandId": "armani-prive", "name": "Blanc Kogane", "notesTop": ["Aldéhydes", "Poivre rose", "Citron"], "notesHeart": ["Mahonial®", "Jasmin", "Ylang-ylang"], "notesBase": ["Musc blanc", "Patchouli", "Vétiver"], "gender": "unisexe", "price": 10.9, "prices": {"2ml": 10.9, "5ml": 21.9, "10ml": 39.9}, "type": "decant", "supplierAvailable": true, "shopifyHandle": "armani-prive-blanc-kogane", "image": "assets/images/products/armani-prive-blanc-kogane.webp", "imageWidth": 540, "annee": "2023"},
     {"id": "bvlgari-orom-le-gemme", "brand": "Bvlgari", "brandId": "bvlgari", "name": "Orom (Le Gemme)", "notesTop": ["Absolue de vanille bourbon", "Benjoin du Siam", "Bois de santal d'Australie", "Oud d'Assam", "Daim blond", "Cèdre de Virginie"], "notesHeart": [], "notesBase": [], "gender": "unisexe", "price": 14.9, "prices": {"2ml": 14.9, "5ml": 23.9, "10ml": 39.9}, "type": "decant", "supplierAvailable": true, "shopifyHandle": "bvlgari-orom-le-gemme", "image": "assets/images/products/bvlgari-orom-le-gemme.webp", "imageWidth": 540, "annee": "2022"},

diff --git a/assets/js/catalogue-bientot.js b/assets/js/catalogue-bientot.js
@@ -67,7 +67,7 @@
     {"id": "byron-mula-mula-double-caramel", "brand": "Byron", "brandId": "byron", "name": "Mula Mula Double Caramel", "notesTop": ["Caramel", "Gingembre", "Pêche"], "notesHeart": ["Caramel", "Framboise", "Fraise", "Vanille"], "notesBase": ["Ambre", "Bois d'agar du Laos", "Patchouli"], "gender": "unisexe", "type": "decant", "bientot": true, "supplierAvailable": false, "new": true, "badge": "new", "badgeLabel": "Bientôt", "family": "floral", "annee": "2023", "parfumeur": "LARCHITECT", "accords": ["fruité", "sucré", "caramel", "ambre", "oud", "épicé frais"], "image": "assets/images/products/byron-mula-mula-double-caramel.webp", "imageWidth": 540},
     {"id": "byron-green-butterfly", "brand": "Byron", "brandId": "byron", "name": "Green Butterfly", "notesTop": ["Iris", "Chocolat noir", "Agrumes", "Fleur d'oranger"], "notesHeart": ["Daim", "Aldéhydes", "Vanille", "Musc blanc", "Jasmin"], "notesBase": ["Bois exotiques", "Bois de santal", "Vétiver", "Patchouli"], "gender": "unisexe", "type": "decant", "bientot": true, "supplierAvailable": false, "new": true, "badge": "new", "badgeLabel": "Bientôt", "family": "floral", "annee": "2022", "parfumeur": "LARCHITECT", "accords": ["boisé", "poudré", "iris", "musqué", "terreux", "agrume"], "image": "assets/images/products/byron-green-butterfly.webp", "imageWidth": 750},
     {"id": "byron-pirates-2-0", "brand": "Byron", "brandId": "byron", "name": "Pirates 2.0", "notesTop": ["Poire", "Muguet", "Bergamote"], "notesHeart": ["Tubéreuse", "Ylang-ylang", "Jasmin"], "notesBase": ["Musc blanc", "Ambre gris", "Cèdre", "Patchouli"], "gender": "unisexe", "type": "decant", "bientot": true, "supplierAvailable": false, "new": true, "badge": "new", "badgeLabel": "Bientôt", "family": "oriental", "annee": "2018", "parfumeur": "LARCHITEC", "accords": ["fleurs blanches", "tubéreuse", "boisé", "fleurs jaunes", "animal", "sucré"], "image": "assets/images/products/byron-pirates-2-0.webp", "imageWidth": 721},
-    {"id": "byron-pirates", "brand": "Byron", "brandId": "byron", "name": "Pirates", "notesTop": ["Poire", "Bergamote"], "notesHeart": ["Tubéreuse", "Ylang-ylang", "Jasmin"], "notesBase": ["Patchouli", "Musc blanc", "Ambre"], "gender": "unisexe", "type": "decant", "bientot": true, "supplierAvailable": false, "new": true, "badge": "new", "badgeLabel": "Bientôt", "family": "floral", "annee": "2018", "accords": ["fleurs blanches", "boisé", "patchouli", "fleurs jaunes", "tubéreuse", "sucré"], "image": "assets/images/products/byron-pirates.webp", "imageWidth": 360},
+    {"id": "byron-pirates", "brand": "Byron", "brandId": "byron", "name": "Pirates", "notesTop": ["Poire", "Bergamote"], "notesHeart": ["Tubéreuse", "Ylang-ylang", "Jasmin"], "notesBase": ["Patchouli", "Musc blanc", "Ambre"], "gender": "unisexe", "type": "decant", "bientot": true, "supplierAvailable": false, "new": true, "badge": "new", "badgeLabel": "Bientôt", "family": "floral", "annee": "2018", "accords": ["fleurs blanches", "boisé", "patchouli", "fleurs jaunes", "tubéreuse", "sucré"], "image": "assets/images/products/byron-pirates.webp", "imageWidth": 750},
     {"id": "byron-la-french", "brand": "Byron", "brandId": "byron", "name": "La French", "notesTop": ["Fruits", "Amande", "Coriandre", "Agrumes"], "notesHeart": ["Musc blanc", "Absolu de vanille", "Racine d'iris"], "notesBase": ["Bois de santal", "Ambre gris"], "gender": "unisexe", "type": "decant", "bientot": true, "supplierAvailable": false, "new": true, "badge": "new", "badgeLabel": "Bientôt", "family": "aromatique", "annee": "2024", "parfumeur": "LARCHITECT", "accords": ["poudré", "boisé", "musqué", "fruité", "vanille", "sucré"], "image": "assets/images/products/byron-la-french.webp", "imageWidth": 540},
     {"id": "casamorati-dama-bianca", "brand": "Casamorati", "brandId": "casamorati", "name": "Dama Bianca", "notesTop": ["Kumquat", "Citron vert"], "notesHeart": ["Violette", "Iris d'Italie", "Lilas", "Jasmin d'Egypte", "Muguet"], "notesBase": ["Vanille", "Malt", "Musc blanc", "Ambrette", "Bois de santal", "Cèdre"], "gender": "femme", "type": "decant", "bientot": true, "supplierAvailable": false, "new": true, "badge": "new", "badgeLabel": "Bientôt", "family": "floral", "annee": "2012", "accords": ["poudré", "vanille", "violette", "floral", "musqué", "agrume"], "image": "assets/images/products/casamorati-dama-bianca.webp", "imageWidth": 750},
     {"id": "casamorati-italica-2021", "brand": "Casamorati", "brandId": "casamorati", "name": "Italica (2021)", "notesTop": ["Amande", "Lait", "Safran"], "notesHeart": ["Toffee", "Vanille bourbon"], "notesBase": ["Bois de santal", "Musc blanc"], "gender": "unisexe", "type": "decant", "bientot": true, "supplierAvailable": false, "new": true, "badge": "new", "badgeLabel": "Bientôt", "family": "oriental", "annee": "2021", "accords": ["sucré", "amande", "lactonique", "vanille", "fruits à coque", "fruité"], "image": "assets/images/products/casamorati-italica-2021.webp", "imageWidth": 750},
